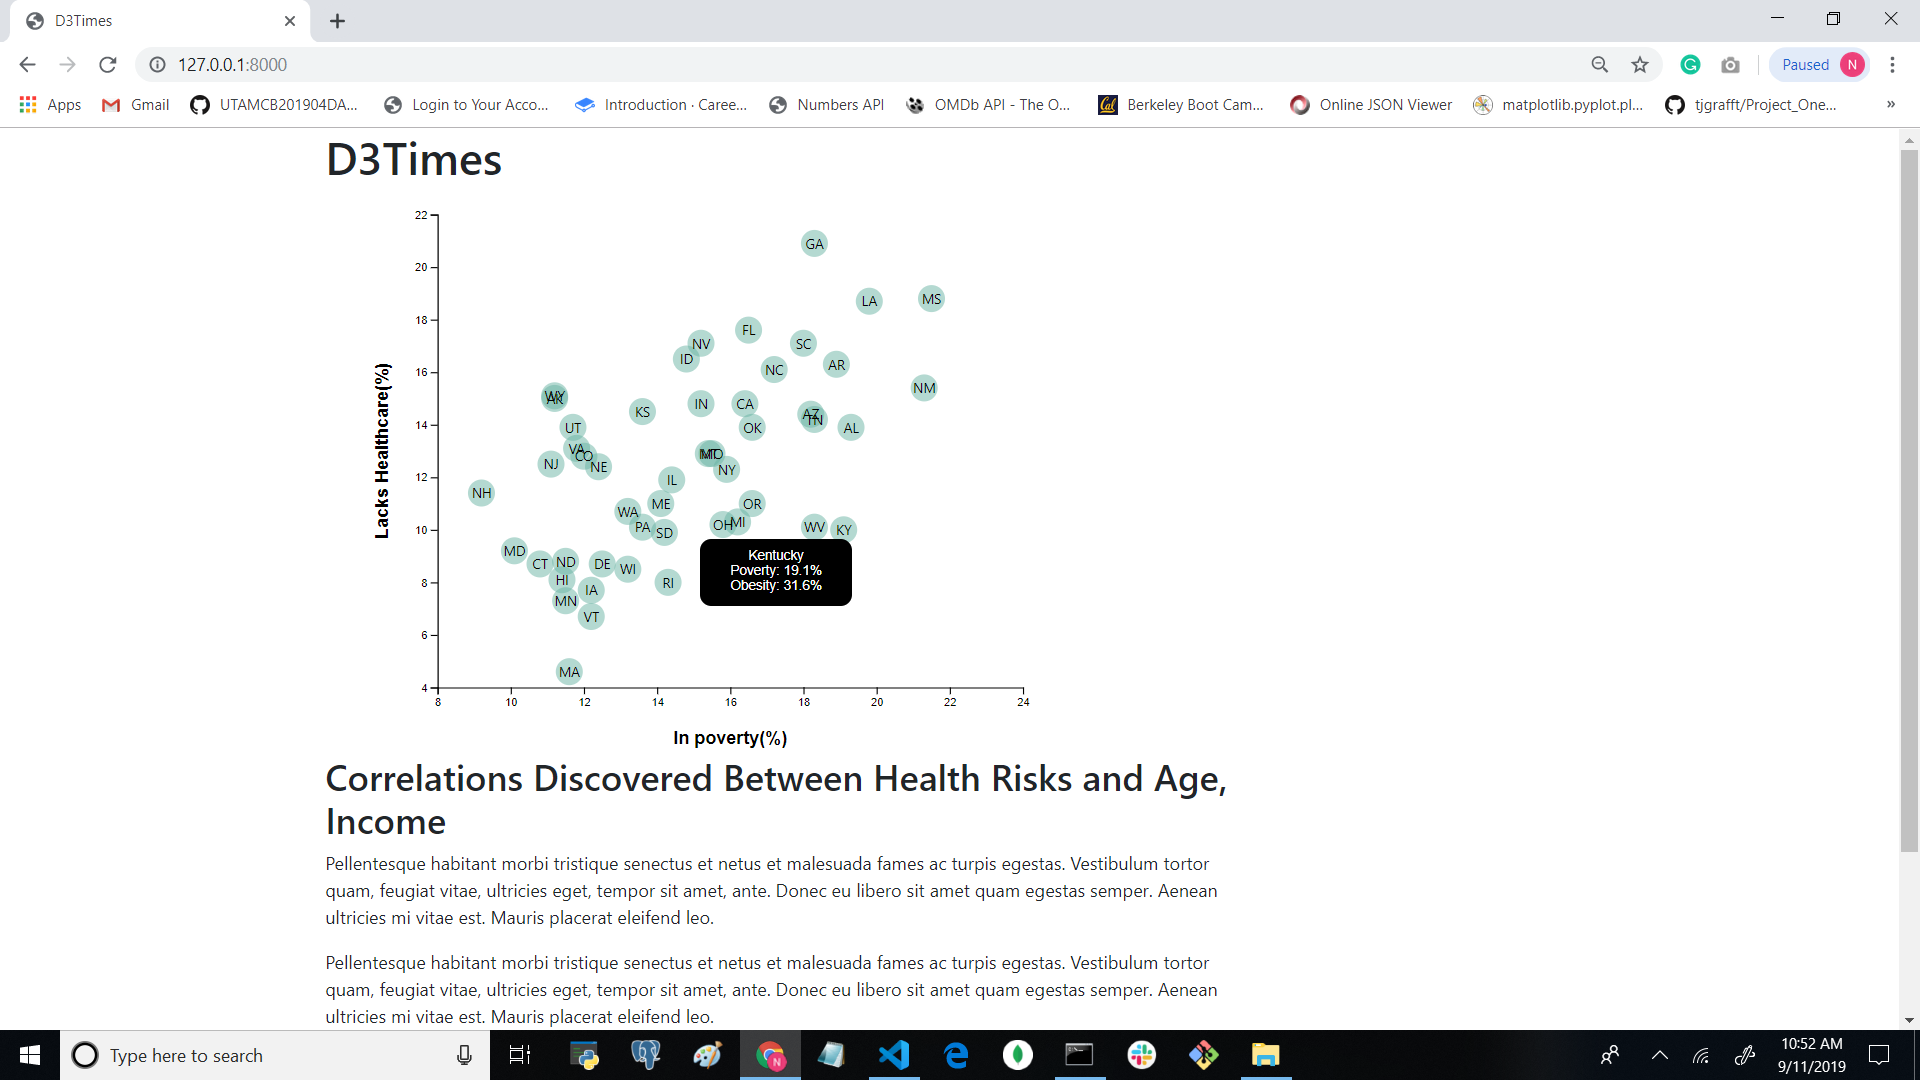
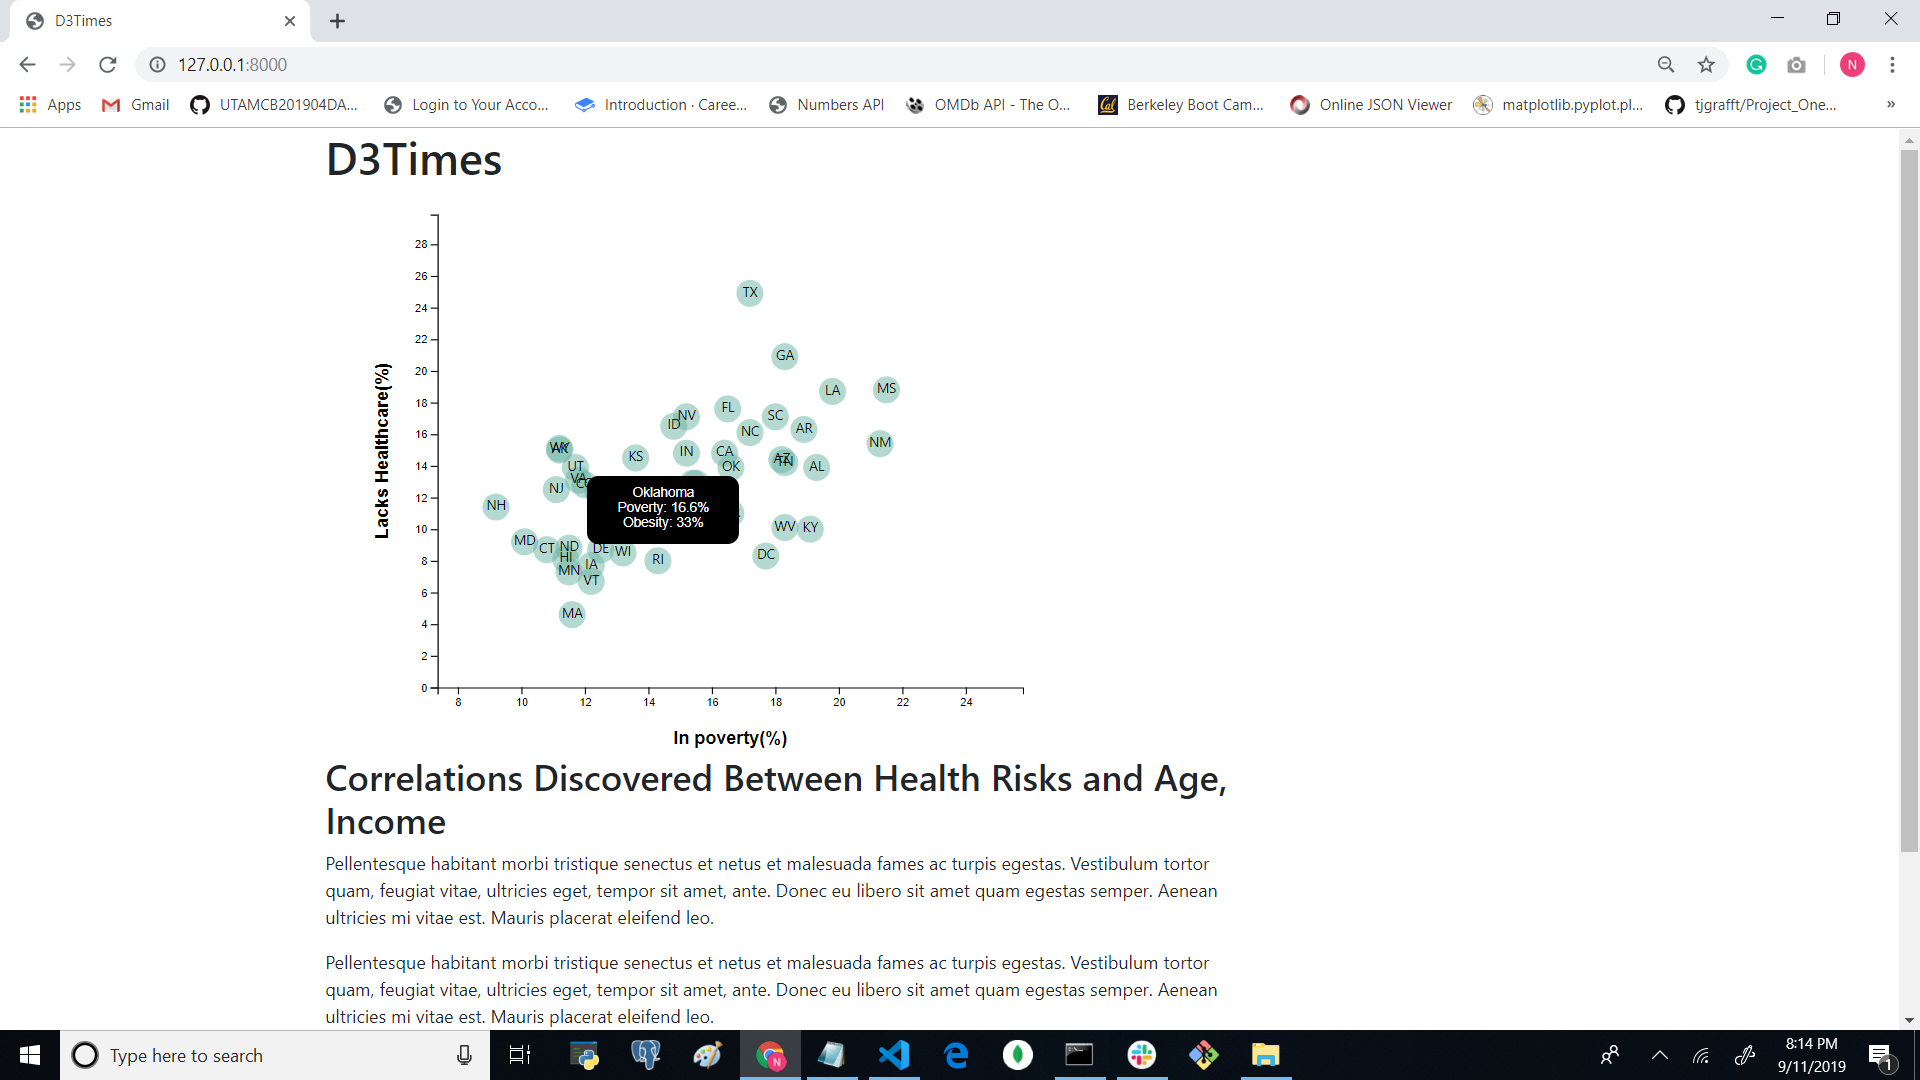
final code

diff --git a/Instructions/StarterCode/assets/js/app.js b/Instructions/StarterCode/assets/js/app.js
@@ -29,22 +29,20 @@ d3.csv("assets/data/data.csv")
      console.log(data);
     // Step 1: Parse Data/Cast as numbers
     // ==============================
-    //data.forEach(function(dd) {
-     // dd.poverty = +dd.poverty;
-      //dd.healthcare = +dd.healthcare;
-  
+    data.forEach(function(dd) {
+      dd.poverty = +dd.poverty;
+      dd.healthcare = +dd.healthcare;
+    });
     
 //  Create scale functions
-    // ==============================
-var xLinearScale = d3.scaleLinear()
-  //.domain([d3.extent(data, d => d.poverty)])
-    .domain([8,24])
-    .range([0, width]);
+    var xLinearScale = d3.scaleLinear()
+       .domain([d3.min(data, d=>d.poverty)*0.8,
+      d3.max(data, d => d.poverty)*1.2])
+      .range([0, width]);
+      var yLinearScale = d3.scaleLinear()
+     .domain([0, d3.max(data, d => d.healthcare)*1.2])
+     .range([height, 0]);
 
-var yLinearScale = d3.scaleLinear()
- // .domain([d3.extent(data, d => d.healthcare)])
-    .domain([4,22])
-    .range([height, 0]);
 
 //  Create axis functions
   // ==============================
